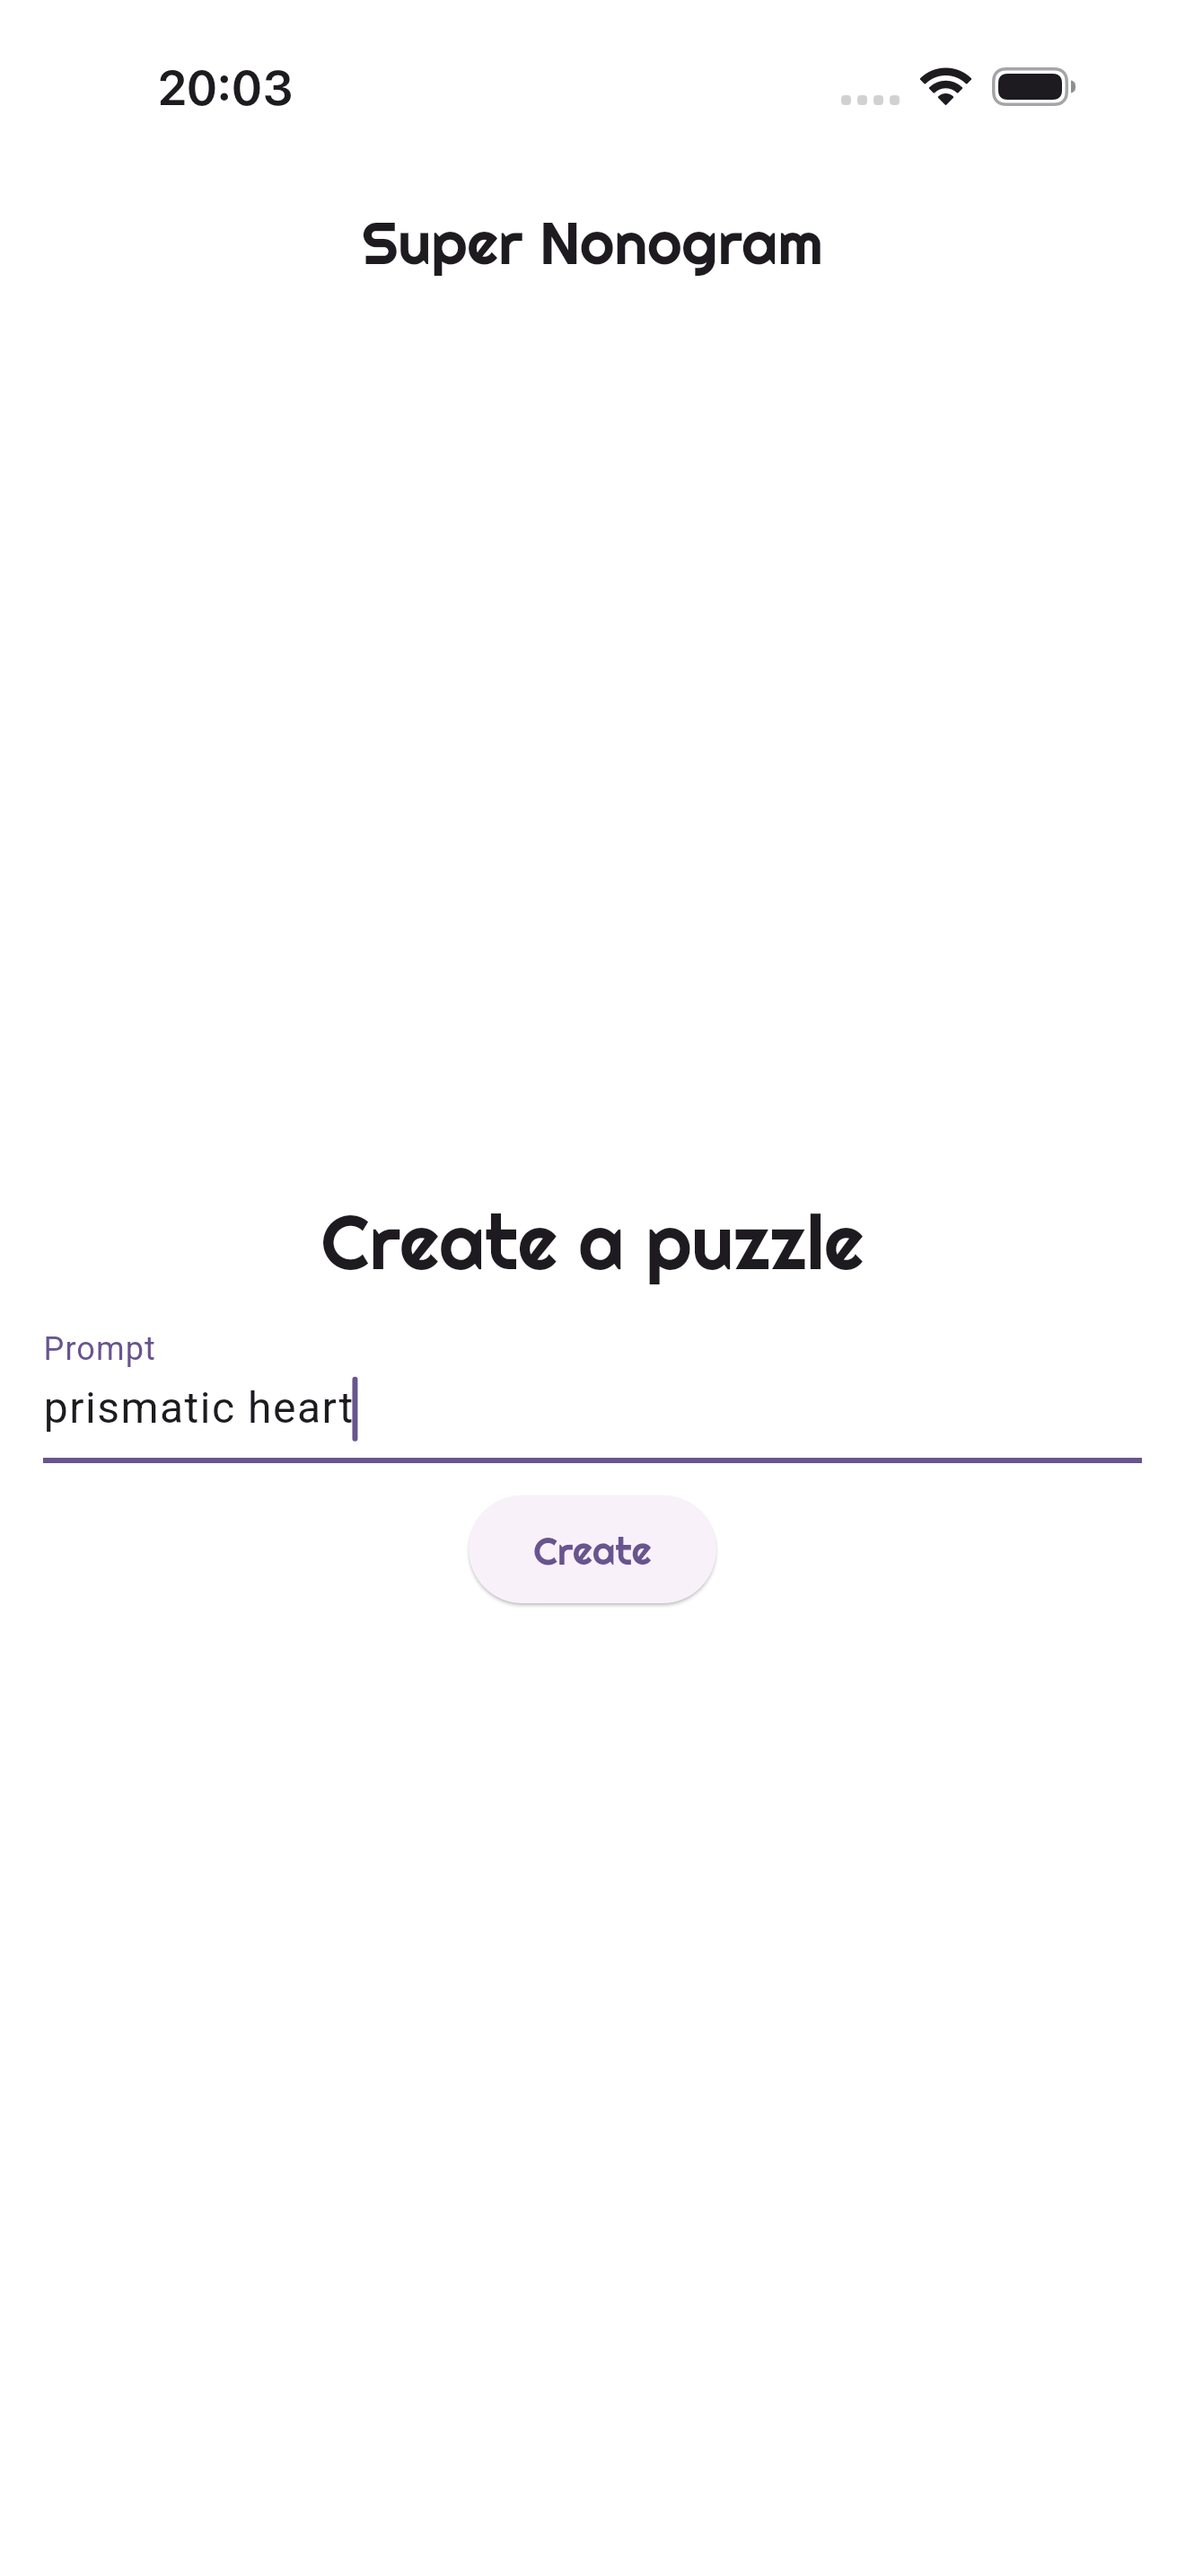
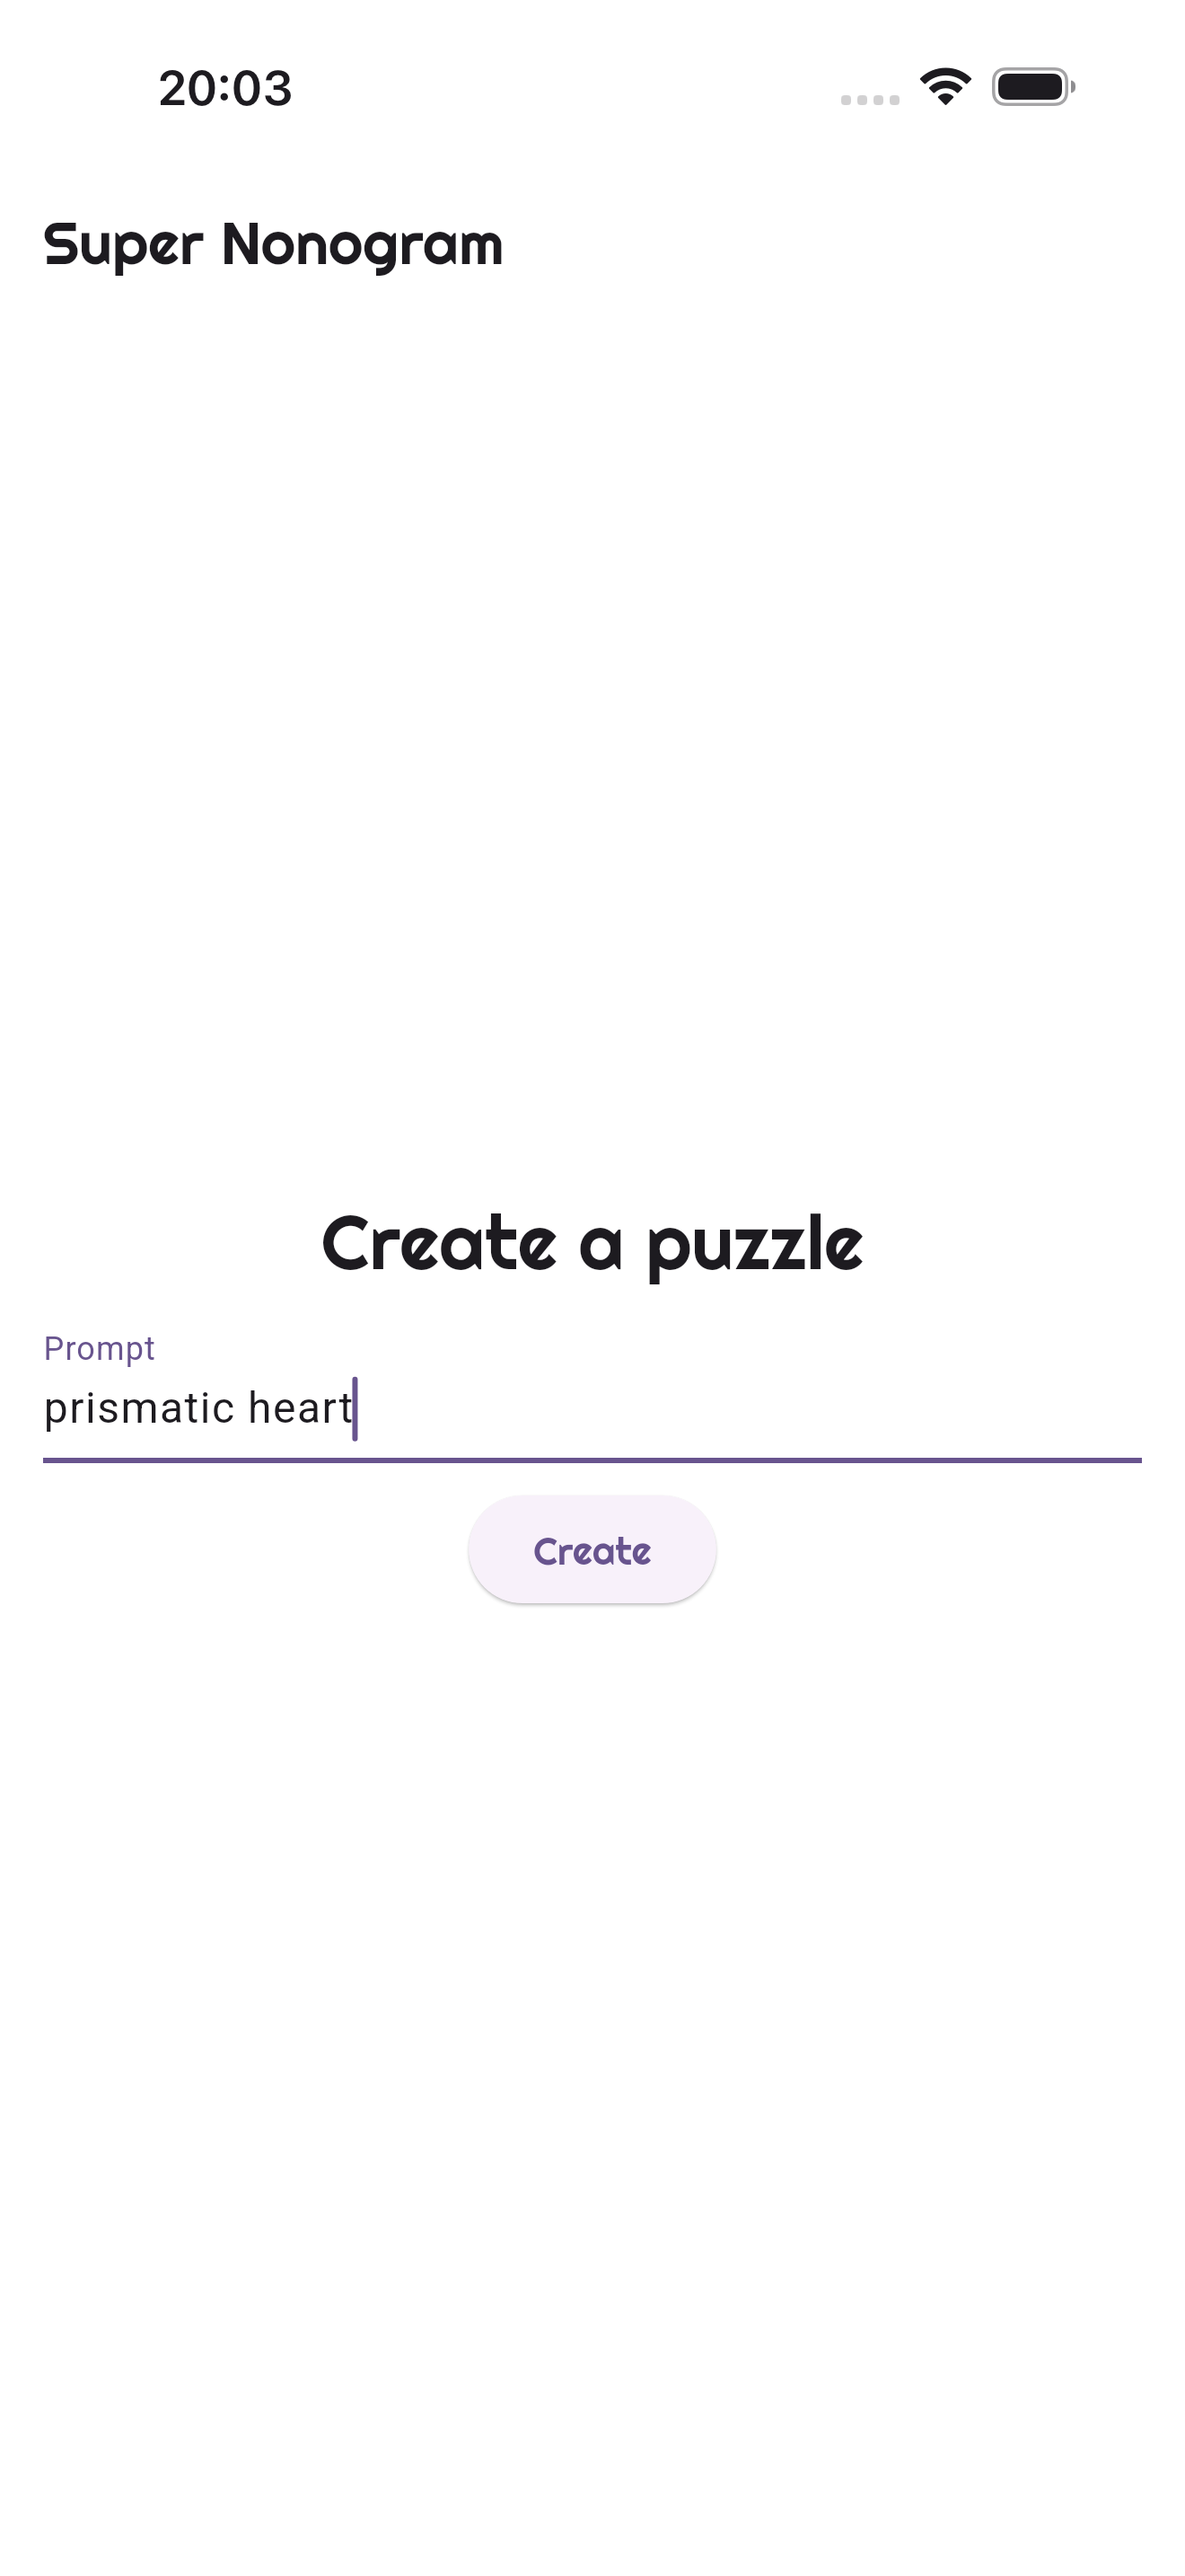
tweak: don't center titles on ios

Changed region(s): [[0.1864, 0.0621, 0.4348, 0.1241], [0.4659, 0.0931, 0.6833, 0.1241], [0.0311, 0.0621, 0.1553, 0.1241]]

diff --git a/lib/pages/play_page.dart b/lib/pages/play_page.dart
@@ -252,7 +252,6 @@ class PlayPageState extends State<PlayPage> {
               ),
             ],
           ),
-          centerTitle: false,
           // Display level selector
           bottom: gameMode is! LevelGameMode
               ? null

diff --git a/lib/theme/theme.dart b/lib/theme/theme.dart
@@ -40,6 +40,7 @@ abstract class SuperNonogramTheme {
       textButtonTheme: TextButtonThemeData(
         style: TextButton.styleFrom(textStyle: textTheme.titleLarge),
       ),
+      appBarTheme: AppBarTheme(centerTitle: false),
     );
   }
 
